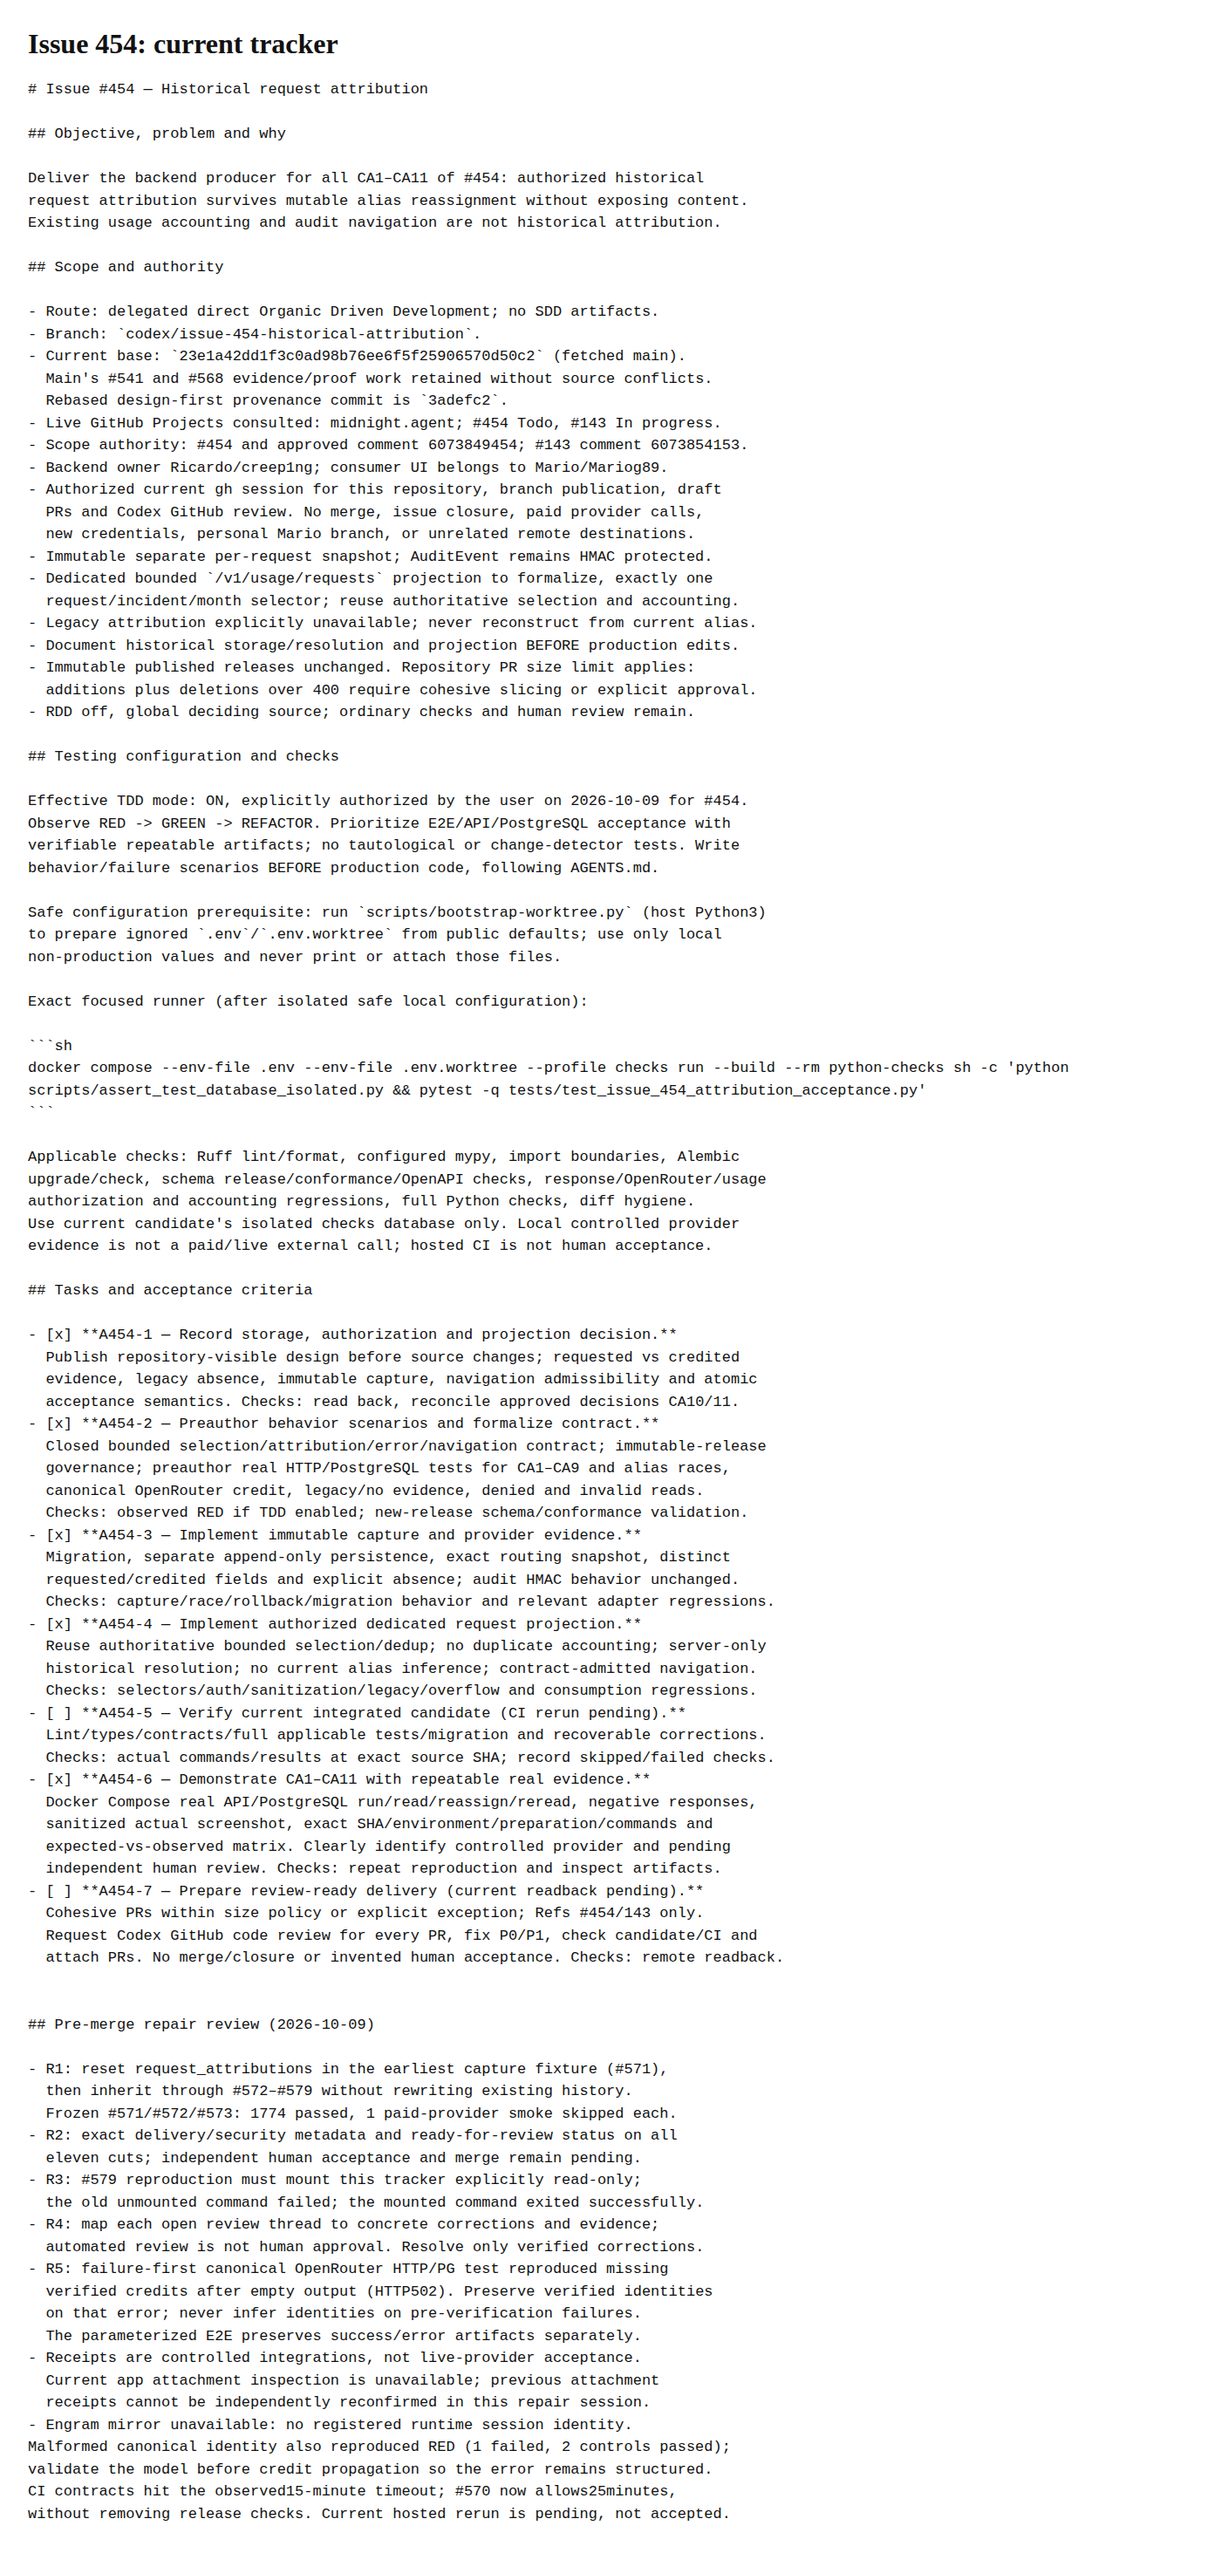
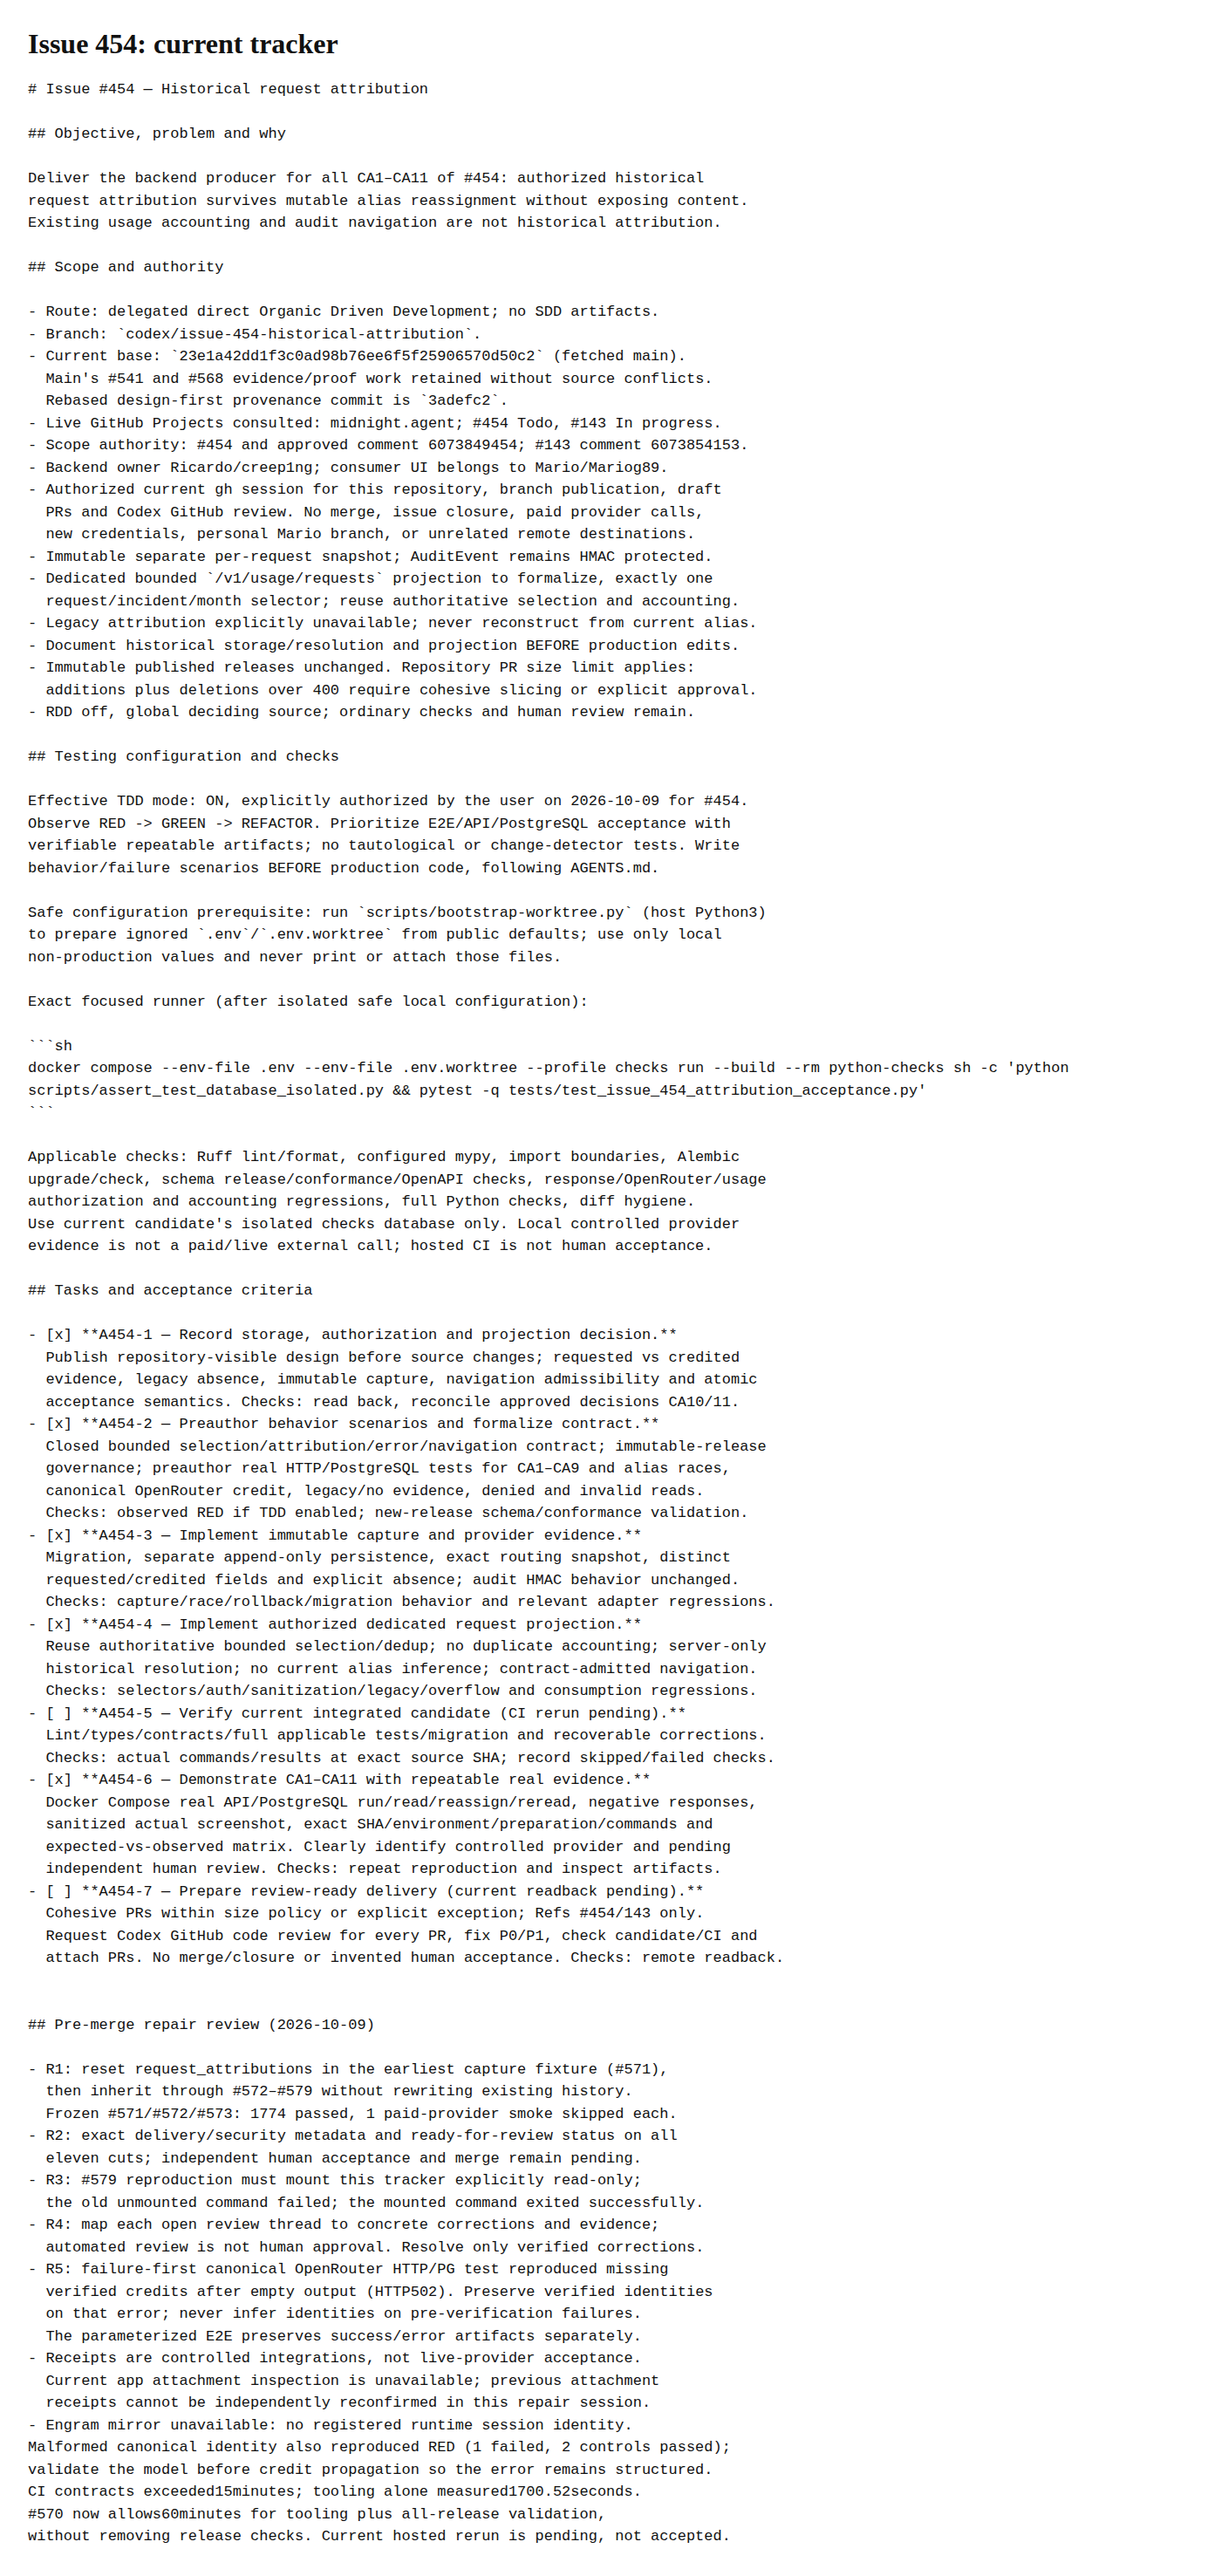
docs(tracking): reconcile contract budget with measured duration

Changed region(s): [[0.0, 0.0311, 0.7679, 0.9949], [0.8293, 0.4042, 0.86, 0.4353]]

diff --git a/odd/tasks/issue-454-historical-attribution.md b/odd/tasks/issue-454-historical-attribution.md
@@ -472,5 +472,6 @@ All eleven drafts are attached. Backend CA1–CA11 verified;human review pending
 - Engram mirror unavailable: no registered runtime session identity.
 Malformed canonical identity also reproduced RED (1 failed, 2 controls passed);
 validate the model before credit propagation so the error remains structured.
-CI contracts hit the observed15-minute timeout; #570 now allows25minutes,
+CI contracts exceeded15minutes; tooling alone measured1700.52seconds.
+#570 now allows60minutes for tooling plus all-release validation,
 without removing release checks. Current hosted rerun is pending, not accepted.
